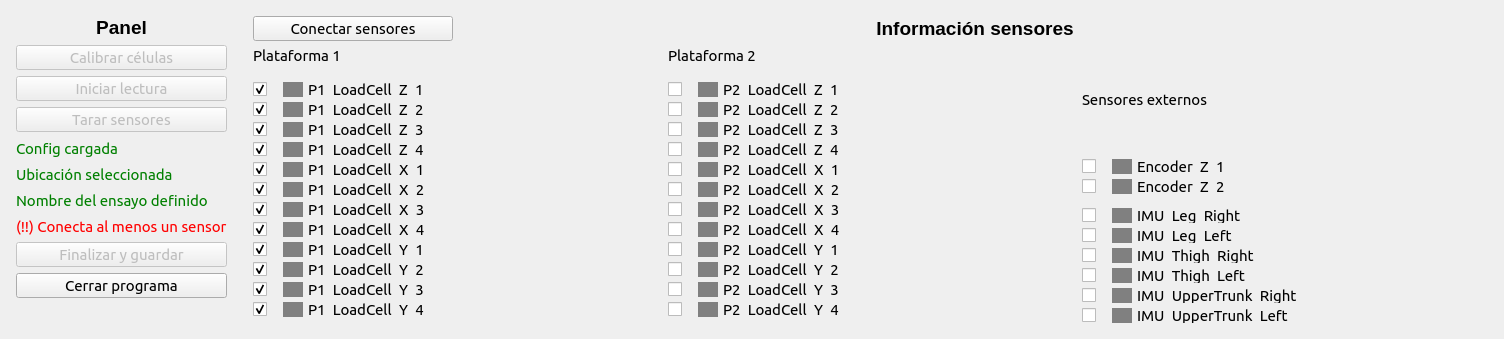
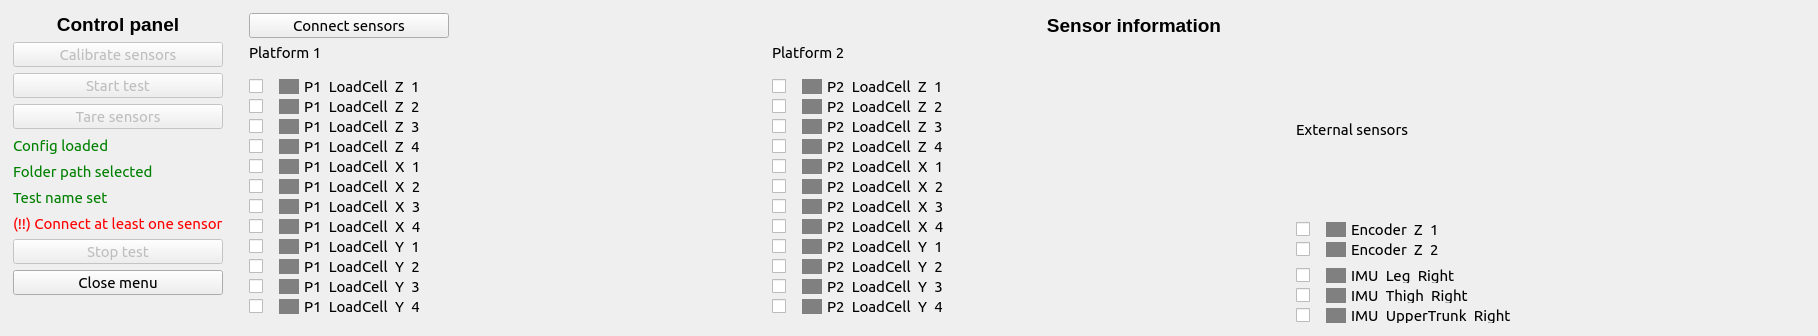
Update docs images with english GUIs

diff --git a/docs/features/general_test.md b/docs/features/general_test.md
@@ -7,7 +7,7 @@ The main objective of the program is to record data from the connected sensors i
 
 When running the `main.py` file of the program, a window like this will open:
 
-![Main GUI](../../images/docs_images/main_gui.png)
+![Main GUI](../../images/docs_images/main_gui_default.png)
 
 The interface is organised in three main sections which will be detailed below:
 - File management.
@@ -21,13 +21,16 @@ The interface is organised in three main sections which will be detailed below:
 In this section you can configure the following options listed below.
 
 ### Load a custom configuration file
-**Not yet implemented**
 
 It is possible to load another `.yaml` file than the default `config.yaml` file. This is useful when you want to run tests that have different sensor and platform layouts and other calibration values.
 
 If you want to load another configuration file, click on the <kbd>Select config file</kbd> button and select the custom file with extension `.yaml`.
 
-Once selected, if it is in the correct format, the window will be updated with the new sensor information. The path to the custom configuration will also be saved in the default configuration file (`config.yaml`) to be loaded automatically each time the program is launched.
+Once selected, if it is in the correct format, the window will be updated with the new sensor information.
+
+![Main GUI Section 1](../../images/docs_images/main_gui_custom_config.png)
+
+The path to the custom configuration will also be saved in the default configuration file (`config.yaml`) to be loaded automatically each time the program is launched.
 
 > This can be cancelled by deleting the custom configuration path in the default `config.yaml` file.
 
@@ -53,11 +56,11 @@ Once marked, press the <kbd>Connect sensors</kbd> button. Depending on the type 
 
 Once a connection is established (or not) with the indicated sensors, the table will be updated with the status of each sensor with one of the following colours listed here:
 
-| Colour | Description |
+| Color | Description |
 | :---: | :--- |
-|<a href='#'><img valign='middle' src='https://readme-swatches.vercel.app/808080'/></a>| No connection attempted. |
-|<a href='#'><img valign='middle' src='https://readme-swatches.vercel.app/ff0000'/></a>| Connection could not be established. |
-|<a href='#'><img valign='middle' src='https://readme-swatches.vercel.app/008000'/></a>| Connection successfully established. |
+|<img valign='middle' src='https://readme-swatches.vercel.app/808080'/>| No connection attempted. |
+|<img valign='middle' src='https://readme-swatches.vercel.app/ff0000'/>| Connection could not be established. |
+|<img valign='middle' src='https://readme-swatches.vercel.app/008000'/>| Connection successfully established. |
 
 If at least one sensor is connected and the requirements indicated on the control panel are met, the buttons will be enabled to start the tests.
 

diff --git a/docs/features/calibration_test.md b/docs/features/calibration_test.md
@@ -4,7 +4,9 @@
 
 Previously, you need to connect the sensors you want to calibrate in the main GUI as shown in the following picture.
 
-![Sensor connection example](../../images/docs_images/calibration_sensor_connection.png)
+![Sensor connection example](../../images/docs_images/main_gui_section2_connections.png)
+
+> Need more information about how to connect sensors? Check the [sensor connection](general_test.md#sensor-connection) section of the general test procedure.
 
 Then, click on the <kbd>Calibrate sensors</kbd> button on the left panel. This button will be available if at least one of the selected sensors is connected.
 
